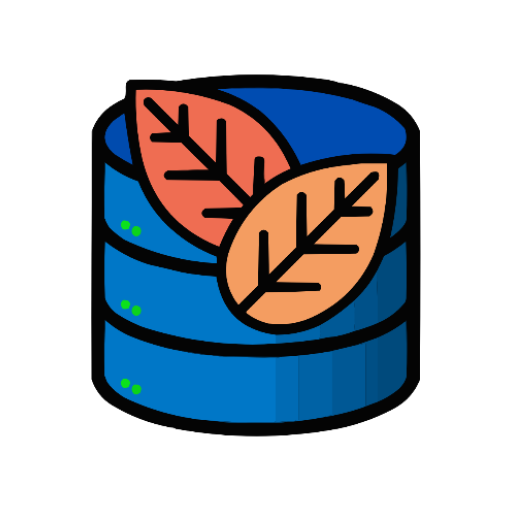
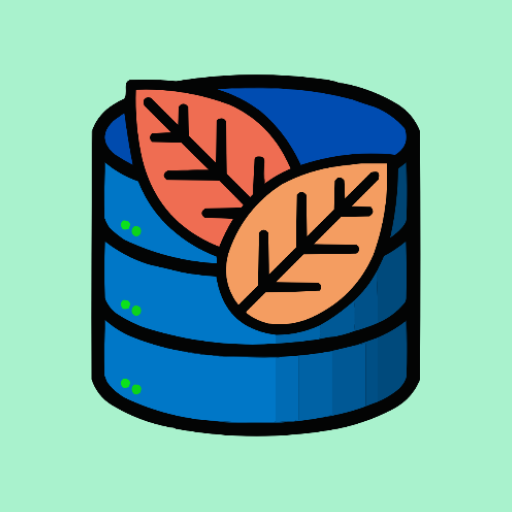
Cleanup and splash screen stuff

diff --git a/app/src/main/java/com/example/tobaccocellar/MainActivity.kt b/app/src/main/java/com/example/tobaccocellar/MainActivity.kt
@@ -1,28 +1,35 @@
 package com.example.tobaccocellar
 
+import android.os.Build
 import android.os.Bundle
 import android.os.Handler
 import android.os.Looper
 import android.widget.Toast
-import androidx.activity.ComponentActivity
 import androidx.activity.OnBackPressedCallback
 import androidx.activity.compose.setContent
-import androidx.compose.foundation.layout.WindowInsets
+import androidx.appcompat.app.AppCompatActivity
 import androidx.compose.foundation.layout.fillMaxSize
-import androidx.compose.foundation.layout.safeDrawing
 import androidx.compose.material3.MaterialTheme
 import androidx.compose.material3.Surface
 import androidx.compose.runtime.CompositionLocalProvider
 import androidx.compose.ui.Modifier
+import androidx.core.splashscreen.SplashScreen.Companion.installSplashScreen
 import com.example.tobaccocellar.data.LocalCellarApplication
 import com.example.tobaccocellar.ui.theme.TobaccoCellarTheme
 
-class MainActivity : ComponentActivity() {
+class MainActivity : AppCompatActivity() {
 
     private var backPressedOnce = false
 
     override fun onCreate(savedInstanceState: Bundle?) {
+        supportActionBar?.hide()
+        if (Build.VERSION.SDK_INT < Build.VERSION_CODES.S) {
+            setTheme(R.style.Theme_TobaccoCellar_Pre31)
+        } else {
+            setTheme(R.style.Theme_TobaccoCellar)
+        }
         super.onCreate(savedInstanceState)
+        installSplashScreen()
 
         onBackPressedDispatcher.addCallback(this, object :
             OnBackPressedCallback(true) {
